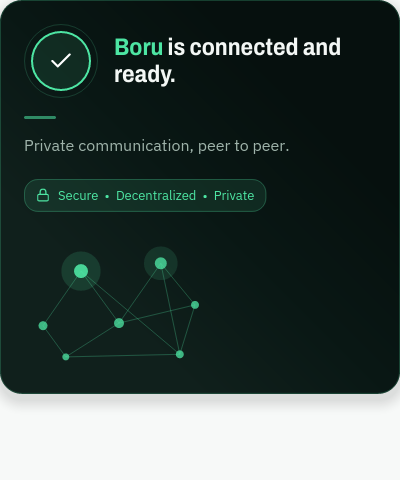
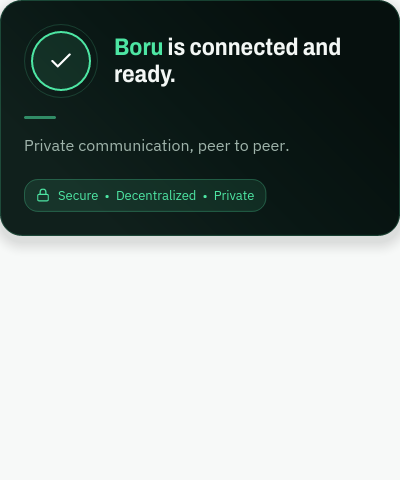
fix(ui): three responsive status-card modes A/B/C, mesh hidden <520px (CONN-09)
- MODE A (>=760): unchanged full three-region row.
- MODE B (560-759): compact horizontal; graph kept on the right only
  while text retains >=260px, shrinking first per spec priority order.
- MODE C (<560): stacked compact (icon+heading / divider / description /
  pill / optional small mesh); mesh not rendered below 520px (spec §13).
- NARROW_CONTENT boundary moved 520 -> 560; new MESH_HIDE_CONTENT=520.
- layout_tier + mesh_rendered tests updated; captures at 560/540/500.

diff --git a/examples/iced_chat/status_card.rs b/examples/iced_chat/status_card.rs
@@ -52,22 +52,32 @@ pub(crate) const STATUS_CARD_PULSE_PHASES: u32 = 6;
 pub(crate) const STATUS_CARD_MIN_CONTENT_HEIGHT: f32 = 150.0;
 
 /// Content width at which the card switches from the full three-region
-/// row layout to the reduced medium layout.
+/// row layout (MODE A) to the reduced compact horizontal layout
+/// (MODE B). Matches the spec's `@container (min-width: 760px)` MODE A
+/// boundary (spec §11).
 pub(crate) const STATUS_CARD_MEDIUM_CONTENT: f32 = 760.0;
-/// Content width below which the card switches to the stacked narrow
-/// layout (icon + heading on one row, then divider/description/pill, then
-/// the network graphic below).
-pub(crate) const STATUS_CARD_NARROW_CONTENT: f32 = 520.0;
+/// Content width below which the card switches from the compact
+/// horizontal layout (MODE B) to the stacked narrow layout (MODE C).
+/// Matches the spec's `@container (max-width: 559px)` MODE C boundary
+/// (spec §12).
+pub(crate) const STATUS_CARD_NARROW_CONTENT: f32 = 560.0;
+/// Content width below which the decorative network graphic is hidden
+/// entirely — the `@container (max-width: 520px) { .network-graphic {
+/// display: none; } }` rule from spec §13. The card must communicate
+/// status perfectly without the decoration.
+pub(crate) const STATUS_CARD_MESH_HIDE_CONTENT: f32 = 520.0;
 
 /// Minimum width the text (heading/description) column is guaranteed in the
 /// Full tier. Mirrors the spec's `minmax(260px, 1fr)` text column — the
 /// heading must never be squeezed below ~260px while a horizontal layout is
 /// active (spec sections 2, 3, 18).
 pub(crate) const STATUS_CARD_TEXT_MIN_WIDTH: f32 = 260.0;
-/// Same guarantee for the Medium tier. The spec's MODE B keeps the text
-/// area at roughly 220-260px; 240 is the mid-band floor so the mesh still
-/// has room to stay visible at the bottom of the band.
-const STATUS_CARD_TEXT_MIN_WIDTH_MEDIUM: f32 = 240.0;
+/// Same guarantee for the Medium (MODE B) tier. Spec §11: the graph stays
+/// on the right only while the text area retains at least ~260px — the
+/// mesh must yield before heading/description/pill. The Full-tier minimum
+/// is already 260, so MODE B keeps the same floor and the mesh simply
+/// shrinks (and can reach 0) as width drops toward the MODE C boundary.
+const STATUS_CARD_TEXT_MIN_WIDTH_MEDIUM: f32 = 260.0;
 /// Upper bound for the decorative mesh in the horizontal tiers (spec §5
 /// graph 150–180 px; CONN-05 tuned the exact size to 170). The mesh must
 /// NEVER consume width the heading needs: it only gets the leftover after
@@ -161,12 +171,21 @@ pub(crate) fn view_status_card(
     // The decorative mesh yields before the text column: in the horizontal
     // tiers its width is the leftover AFTER the text minimum is satisfied
     // (bounded to [0, STATUS_CARD_MESH_MAX_WIDTH]); the narrow stacked tier
-    // keeps the fixed per-tier size.
-    let network = match tier {
-        Tier::Full | Tier::Medium => {
-            network_mesh(dep, tier, horizontal_mesh_width(dep.content_width, tier))
+    // keeps the fixed per-tier size. Below STATUS_CARD_MESH_HIDE_CONTENT
+    // the mesh is not rendered at all (spec §13 — the card must still
+    // communicate status perfectly without the decoration).
+    let network: iced::Element<'static, AppMessage> = if mesh_rendered(dep.content_width) {
+        match tier {
+            Tier::Full | Tier::Medium => {
+                network_mesh(dep, tier, horizontal_mesh_width(dep.content_width, tier))
+            }
+            Tier::Narrow => network_mesh(dep, tier, network_size(tier).0),
         }
-        Tier::Narrow => network_mesh(dep, tier, network_size(tier).0),
+    } else {
+        Space::new()
+            .width(Length::Fixed(0.0))
+            .height(Length::Fixed(0.0))
+            .into()
     };
 
     let body: iced::Element<'static, AppMessage> = match tier {
@@ -227,19 +246,23 @@ pub(crate) fn view_status_card(
                 .spacing(0)
                 .align_y(Alignment::Center)
                 .width(Length::Fill);
-            Column::new()
+            let mut column = Column::new()
                 .push(header_row)
                 .push(Space::new().height(Length::Fixed(18.0)))
                 .push(divider)
                 .push(Space::new().height(Length::Fixed(14.0)))
                 .push(supporting)
                 .push(Space::new().height(Length::Fixed(22.0)))
-                .push(footer)
-                .push(Space::new().height(Length::Fixed(28.0)))
-                .push(network)
-                .spacing(0)
-                .width(Length::Fill)
-                .into()
+                .push(footer);
+            // The decorative mesh is optional below MODE B and hidden
+            // entirely below STATUS_CARD_MESH_HIDE_CONTENT (spec §12/13);
+            // only add its gap when it is actually rendered.
+            if mesh_rendered(dep.content_width) {
+                column = column
+                    .push(Space::new().height(Length::Fixed(28.0)))
+                    .push(network);
+            }
+            column.spacing(0).width(Length::Fill).into()
         }
     };
 
@@ -289,6 +312,14 @@ fn layout_tier(content_width: f32) -> Tier {
     } else {
         Tier::Narrow
     }
+}
+
+/// Whether the decorative network mesh is rendered at the given card
+/// width. Spec §13: below ~520px the mesh is hidden entirely (the
+/// `@container (max-width: 520px) { .network-graphic { display: none; } }`
+/// equivalent) — the card must still communicate status without it.
+fn mesh_rendered(content_width: f32) -> bool {
+    content_width >= STATUS_CARD_MESH_HIDE_CONTENT
 }
 
 /// Accent colour for the current variant: green when connected, amber
@@ -517,7 +548,10 @@ fn actions_row(show_retry: bool, show_details: bool) -> iced::Element<'static, A
 /// horizontal tiers cap the width at [`STATUS_CARD_MESH_MAX_WIDTH`] — the
 /// exact value used in the row comes from [`horizontal_mesh_width`] (the
 /// mesh yields space to the text column); this only bounds the nominal
-/// size. The narrow stacked tier keeps its own fixed size.
+/// size. The narrow stacked tier keeps its own fixed size. NOTE: the
+/// mesh is only *rendered* when [`mesh_rendered`] is true — below
+/// [`STATUS_CARD_MESH_HIDE_CONTENT`] the graphic is dropped entirely, so
+/// this nominal size is never laid out at those widths.
 fn network_size(tier: Tier) -> (f32, f32) {
     match tier {
         Tier::Full => (STATUS_CARD_MESH_MAX_WIDTH, 170.0),
@@ -753,12 +787,19 @@ mod tests {
     fn layout_tiers_are_ordered_and_consistent() {
         assert!(
             STATUS_CARD_MEDIUM_CONTENT > STATUS_CARD_NARROW_CONTENT,
-            "medium tier must sit above the narrow tier"
+            "MODE A boundary must sit above the MODE B/C boundary"
+        );
+        assert!(
+            STATUS_CARD_NARROW_CONTENT > STATUS_CARD_MESH_HIDE_CONTENT,
+            "the MODE B/C boundary (560) must sit above the mesh-hide width (520)"
         );
         assert_eq!(layout_tier(STATUS_CARD_MEDIUM_CONTENT), Tier::Full);
         assert_eq!(layout_tier(STATUS_CARD_MEDIUM_CONTENT - 1.0), Tier::Medium);
         assert_eq!(layout_tier(STATUS_CARD_NARROW_CONTENT), Tier::Medium);
         assert_eq!(layout_tier(STATUS_CARD_NARROW_CONTENT - 1.0), Tier::Narrow);
+        // The mesh-hide width lives INSIDE the Narrow (MODE C) band — the
+        // mesh disappears before the stacked layout ever gives up.
+        assert_eq!(layout_tier(STATUS_CARD_MESH_HIDE_CONTENT), Tier::Narrow);
         assert_eq!(layout_tier(0.0), Tier::Narrow);
         // The minimum supported window width (1024) must land in the
         // medium tier, where the three regions stay visible. CONN-02: the
@@ -861,12 +902,15 @@ mod tests {
         // CONN-03 spec sections 2/3/18: while ANY horizontal layout is
         // active the heading must never be squeezed below ~220-260px.
         // Sweep the tier boundary bands (the spec's manual test widths:
-        // 400/450/500/550/600/700/800/900+). For every width that selects
-        // a horizontal tier, the mesh must yield enough space that the
-        // text column (icon + gaps + mesh removed from the card inner
-        // width) stays at or above its tier minimum.
+        // 400/450/500/550/600/700/800/900+, plus the new MODE B/C
+        // boundary 560 and MODE A boundary 760). For every width that
+        // selects a horizontal tier (Full ≥ 760, Medium 560-759), the
+        // mesh must yield enough space that the text column (icon + gaps
+        // + mesh removed from the card inner width) stays at or above its
+        // tier minimum. Narrow (< 560) is the stacked MODE C — no
+        // horizontal text minimum applies.
         let widths = [
-            400.0, 450.0, 500.0, 520.0, 550.0, 560.0, 600.0, 650.0, 700.0,
+            400.0, 450.0, 500.0, 520.0, 550.0, 559.0, 560.0, 600.0, 650.0, 700.0,
             759.0, 760.0, 800.0, 900.0, 1024.0, 1215.0,
         ];
         for width in widths {
@@ -906,15 +950,16 @@ mod tests {
 
     #[test]
     fn mesh_yields_before_text_when_space_is_tight() {
-        // At the bottom of the Medium band (520px) the decorative mesh
-        // must shrink well below its cap so the text keeps its minimum —
-        // the spec's priority order (heading > description > pill > graph).
-        let tight = horizontal_mesh_width(520.0, Tier::Medium);
+        // At the bottom of the MODE B (Medium) band (560px) the decorative
+        // mesh must shrink well below its cap so the text keeps its
+        // minimum — the spec's priority order (heading > description >
+        // pill > graph).
+        let tight = horizontal_mesh_width(560.0, Tier::Medium);
         assert!(
             tight > 0.0 && tight < STATUS_CARD_MESH_MAX_WIDTH,
-            "at 520px the mesh should shrink ({tight}px) but stay visible"
+            "at 560px the mesh should shrink ({tight}px) but stay visible"
         );
-        let text_at_tight = 520.0
+        let text_at_tight = 560.0
             - 2.0 * STATUS_CARD_PADDING_X
             - design_tokens::STATUS_INDICATOR_SIZE
             - STATUS_ICON_TEXT_GAP_MEDIUM
@@ -931,6 +976,29 @@ mod tests {
             (wide - STATUS_CARD_MESH_MAX_WIDTH).abs() < 0.01,
             "at 1215px the mesh should be capped at {STATUS_CARD_MESH_MAX_WIDTH}px, got {wide}px"
         );
+    }
+
+    #[test]
+    fn mesh_is_hidden_below_mesh_hide_width() {
+        // Spec §13: below ~520px card width the decorative network graphic
+        // is NOT rendered (the `@container (max-width: 520px)` rule). The
+        // card must still communicate status perfectly without the mesh.
+        assert!(
+            STATUS_CARD_MESH_HIDE_CONTENT < STATUS_CARD_NARROW_CONTENT,
+            "the mesh-hide width must sit inside the MODE C (narrow) band"
+        );
+        // The mesh is rendered from the hide boundary upward...
+        assert!(mesh_rendered(STATUS_CARD_MESH_HIDE_CONTENT));
+        assert!(mesh_rendered(STATUS_CARD_NARROW_CONTENT));
+        assert!(mesh_rendered(STATUS_CARD_MEDIUM_CONTENT));
+        // ...and hidden below it (400/450/500/519 are all sub-520).
+        assert!(!mesh_rendered(STATUS_CARD_MESH_HIDE_CONTENT - 1.0));
+        assert!(!mesh_rendered(500.0));
+        assert!(!mesh_rendered(400.0));
+        assert!(!mesh_rendered(0.0));
+        // The hide width is a MODE C width: stacked layout, no horizontal
+        // text minimum, no mesh.
+        assert_eq!(layout_tier(STATUS_CARD_MESH_HIDE_CONTENT), Tier::Narrow);
     }
 
     #[test]

diff --git a/examples/iced_chat/offscreen_status_card.rs b/examples/iced_chat/offscreen_status_card.rs
@@ -198,12 +198,23 @@ mod tests {
         load_font(include_bytes!("fonts/IBMPlexSans-Medium.ttf"));
         load_font(include_bytes!("fonts/IBMPlexSans-SemiBold.ttf"));
 
-        // Wide desktop (1600 window → ~1215 content) — full three-region row.
+        // MODE A — wide desktop (1600 window → ~1215 content): full
+        // three-region row.
         render_card(&dep(HomeConnectionVariant::Ready, 1215.0), 1215.0, 320.0, "status_ready_wide_1215");
-        // Minimum supported window (1024 → ~679 content) — medium row.
+        // MODE B — minimum supported window (1024 → ~679 content):
+        // compact horizontal row, graph on the right (679 ≥ 560).
         render_card(&dep(HomeConnectionVariant::Ready, 679.0), 679.0, 320.0, "status_ready_medium_679");
         render_card(&dep(HomeConnectionVariant::Connecting, 679.0), 679.0, 320.0, "status_connecting_medium_679");
         render_card(&dep(HomeConnectionVariant::Offline, 679.0), 679.0, 360.0, "status_offline_medium_679");
+        // MODE B bottom band (560-759): graph still visible but shrunk
+        // (560 is exactly the MODE B/C boundary).
+        render_card(&dep(HomeConnectionVariant::Ready, 560.0), 560.0, 360.0, "status_ready_modeb_560");
+        // MODE C with the small mesh still shown (520-559): stacked
+        // compact, mesh kept (520 is the mesh-hide boundary).
+        render_card(&dep(HomeConnectionVariant::Ready, 540.0), 540.0, 440.0, "status_ready_modec_540");
+        // MODE C below the mesh-hide width (<520): stacked compact, mesh
+        // NOT rendered (spec §13).
+        render_card(&dep(HomeConnectionVariant::Ready, 500.0), 500.0, 440.0, "status_ready_nomesh_500");
         // Narrow (below supported widths) — stacked layout.
         render_card(&dep(HomeConnectionVariant::Ready, 400.0), 400.0, 480.0, "status_ready_narrow_400");
     }
